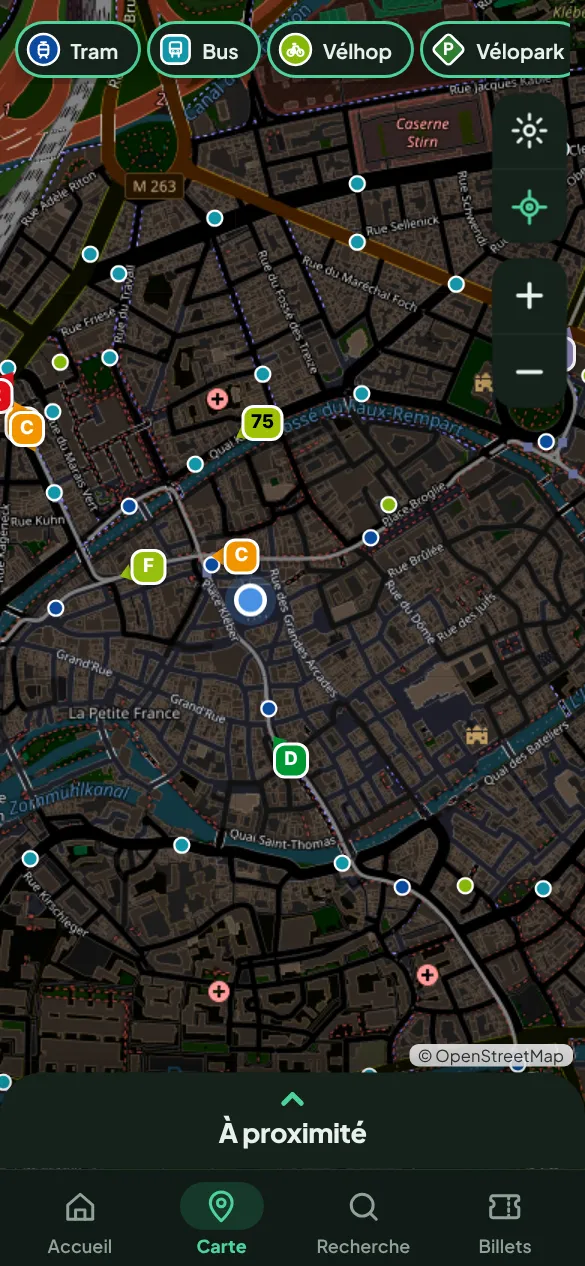
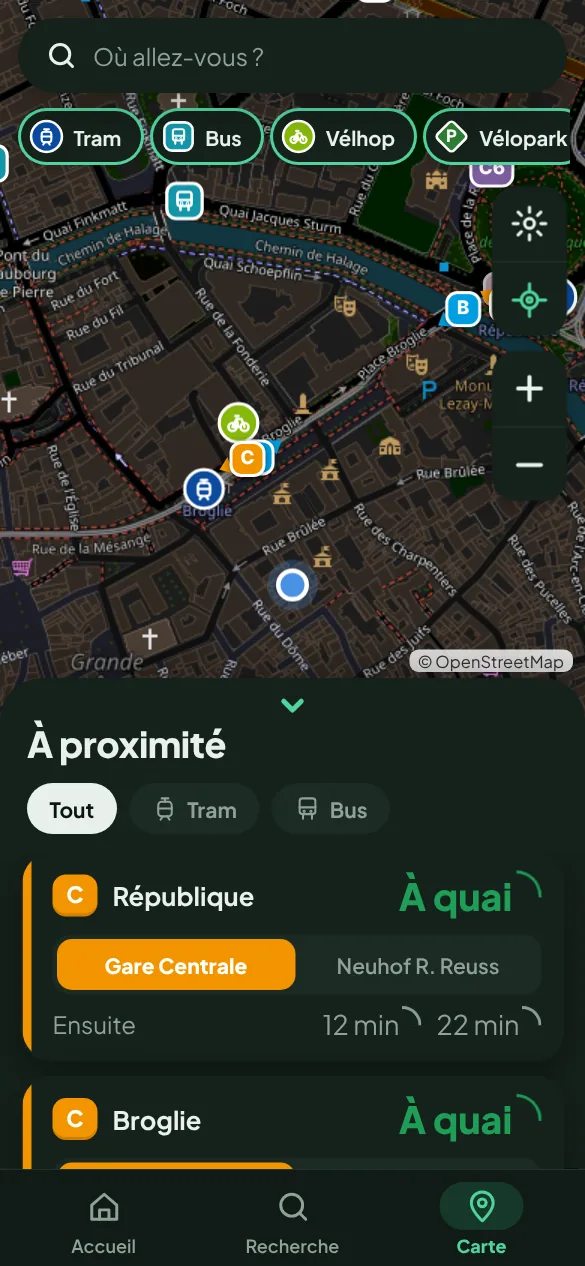
Site : nouveaux aperçus (accueil en tuiles, carte, départs, guidage), nouveautés, thèmes et vie privée à jour

diff --git a/vitrine/index.html b/vitrine/index.html
@@ -4,12 +4,12 @@
 <meta charset="utf-8">
 <meta name="viewport" content="width=device-width, initial-scale=1">
 <title>Kumm – les transports de Strasbourg, en direct</title>
-<meta name="description" content="Kumm affiche les prochains passages, la position des trams et bus et les perturbations du réseau CTS à Strasbourg. Application indépendante, gratuite et sans publicité.">
+<meta name="description" content="Kumm affiche les prochains passages, les trams et bus en direct sur la carte et vous guide jusqu’à destination, avec une alerte avant votre arrêt. Application indépendante pour Strasbourg, gratuite et sans publicité.">
 <meta name="color-scheme" content="light dark">
 <meta name="theme-color" content="#0F5C3E">
 <meta property="og:title" content="Kumm – les transports de Strasbourg, en direct">
-<meta property="og:description" content="Les prochains passages, la position des trams et bus et les perturbations du réseau CTS.">
-<meta property="og:image" content="https://kumm.fr/img/accueil-sombre.webp?v=0.29.1">
+<meta property="og:description" content="Les prochains passages, les trams et bus en direct et un guidage jusqu’à destination, à Strasbourg.">
+<meta property="og:image" content="https://kumm.fr/img/accueil-sombre.webp?v=0.39.2">
 <meta property="og:url" content="https://kumm.fr/">
 <link rel="icon" type="image/svg+xml" href="/logo.svg">
 <link rel="stylesheet" href="/fonts/fonts.css">
@@ -95,7 +95,23 @@ ol.steps b{color:var(--ink)}
 footer{border-top:1px solid var(--line);margin-top:48px;padding:26px 0 46px;color:var(--mute);font-size:14px}
 footer p{margin:0 0 8px}
 
+/* ---------- aperçus de l'application ---------- */
+.shots{display:grid;grid-template-columns:repeat(4,1fr);gap:18px}
+.shot{margin:0;display:flex;flex-direction:column;gap:14px}
+.shot .frame{border-radius:30px;padding:7px;background:#0A0F0D;box-shadow:var(--shadow),inset 0 0 0 2px #2a3530}
+.shot img{border-radius:24px;width:100%;height:auto}
+.shot figcaption b{display:block;font-size:17px;font-weight:800}
+.shot figcaption{color:var(--mute);font-size:14.5px;line-height:1.45}
+.tag{display:inline-block;font-size:12px;font-weight:800;letter-spacing:.6px;text-transform:uppercase;background:var(--soft);color:var(--accent-ink);border-radius:20px;padding:3px 10px;margin-bottom:6px}
+.f.new{border-color:color-mix(in srgb,var(--accent) 45%,var(--line))}
+.themes{display:flex;flex-wrap:wrap;gap:10px;margin-top:16px}
+.themes span{display:flex;align-items:center;gap:8px;background:var(--card);border:1px solid var(--line);border-radius:22px;padding:7px 14px 7px 8px;font-weight:700;font-size:14.5px}
+.themes i{width:22px;height:22px;border-radius:50%;box-shadow:inset 0 0 0 1px rgba(127,127,127,.35)}
+
 @media (max-width:880px){
+  .shots{grid-template-columns:repeat(4,72%);overflow-x:auto;scroll-snap-type:x mandatory;padding:4px 20px 14px;margin:0 -20px;scrollbar-width:none}
+  .shots::-webkit-scrollbar{display:none}
+  .shot{scroll-snap-align:center}
   .hero-grid{grid-template-columns:1fr;padding-top:34px}
   .phones{height:420px;margin:0 auto;width:100%;max-width:400px}
   .phone{width:196px;border-radius:32px;padding:7px}
@@ -107,6 +123,7 @@ footer p{margin:0 0 8px}
   .privacy{grid-template-columns:1fr 1fr}
 }
 @media (max-width:560px){
+  .shots{grid-template-columns:repeat(4,80%)}
   .features{grid-template-columns:1fr}
   .phones{height:360px}
   .phone{width:166px}
@@ -124,7 +141,7 @@ footer p{margin:0 0 8px}
     <div class="hero-grid">
       <div>
         <h1>Les trams et bus de Strasbourg, <em>en direct.</em></h1>
-        <p class="lead">Kumm affiche les prochains passages à vos arrêts, la position des trams et bus sur la carte et les perturbations en cours sur le réseau CTS. L’application est gratuite et sans publicité.</p>
+        <p class="lead">Les prochains passages à vos arrêts, les trams et bus qui avancent sur la carte, et un guidage qui vous accompagne jusqu’à destination, avec une alerte juste avant votre arrêt. Gratuit et sans publicité.</p>
         <div class="actions">
           <span class="btn primary soon" aria-disabled="true">
             <svg viewBox="0 0 24 24" fill="currentColor" aria-hidden="true"><path d="M17.6 9.48l1.84-3.18a.38.38 0 0 0-.66-.38l-1.86 3.22a11.4 11.4 0 0 0-9.84 0L5.22 5.92a.38.38 0 0 0-.66.38L6.4 9.48A10.8 10.8 0 0 0 1 18h22a10.8 10.8 0 0 0-5.4-8.52zM7 15.25a1.25 1.25 0 1 1 0-2.5 1.25 1.25 0 0 1 0 2.5zm10 0a1.25 1.25 0 1 1 0-2.5 1.25 1.25 0 0 1 0 2.5z"/></svg>
@@ -138,25 +155,52 @@ footer p{margin:0 0 8px}
         <p class="meta">Application indépendante, non affiliée à la CTS.</p>
       </div>
       <div class="phones" aria-label="Aperçus de l’application">
-        <div class="phone a"><picture><source srcset="/img/carte-sombre.webp?v=0.29.1" media="(prefers-color-scheme: dark)"><img src="/img/carte-clair.webp?v=0.29.1" width="585" height="1266" alt="La carte : arrêts, trams et bus en circulation" loading="eager"></picture></div>
-        <div class="phone b"><picture><source srcset="/img/accueil-sombre.webp?v=0.29.1" media="(prefers-color-scheme: dark)"><img src="/img/accueil-clair.webp?v=0.29.1" width="585" height="1266" alt="L’accueil de Kumm : recherche, prochains passages aux arrêts favoris et infos trafic" loading="eager"></picture></div>
+        <div class="phone a"><picture><source srcset="/img/carte-sombre.webp?v=0.39.2" media="(prefers-color-scheme: dark)"><img src="/img/carte-clair.webp?v=0.39.2" width="585" height="1266" alt="La carte : arrêts, trams et bus en circulation" loading="eager"></picture></div>
+        <div class="phone b"><picture><source srcset="/img/accueil-sombre.webp?v=0.39.2" media="(prefers-color-scheme: dark)"><img src="/img/accueil-clair.webp?v=0.39.2" width="585" height="1266" alt="L’accueil de Kumm en tuiles : itinéraire, arrêts favoris, info trafic et Vélhop" loading="eager"></picture></div>
       </div>
     </div>
   </div>
 </header>
 
 <main class="wrap">
+  <section aria-labelledby="t-apercus">
+    <p class="kicker">Nouvelle version</p>
+    <h2 id="t-apercus">Pensée pour aller vite</h2>
+    <p class="intro">Un accueil qui montre d’un coup d’œil ce qui compte pour vous, une carte en plein écran, des départs lisibles comme sur les écrans en station, et un guide qui vous suit du trottoir jusqu’à votre arrivée.</p>
+    <div class="shots">
+      <figure class="shot"><div class="frame"><picture><source srcset="/img/accueil-sombre.webp?v=0.39.2" media="(prefers-color-scheme: dark)"><img src="/img/accueil-clair.webp?v=0.39.2" width="585" height="1266" alt="Accueil en tuiles" loading="lazy"></picture></div><figcaption><b>Accueil en tuiles</b>Vos arrêts favoris et leurs prochains passages, l’info trafic et les vélos Vélhop les plus proches.</figcaption></figure>
+      <figure class="shot"><div class="frame"><picture><source srcset="/img/carte-sombre.webp?v=0.39.2" media="(prefers-color-scheme: dark)"><img src="/img/carte-clair.webp?v=0.39.2" width="585" height="1266" alt="Carte en plein écran avec les trams et bus en circulation" loading="lazy"></picture></div><figcaption><b>Carte en direct</b>Les trams et bus avancent sur la carte ; les arrêts proches et leurs passages en dessous.</figcaption></figure>
+      <figure class="shot"><div class="frame"><picture><source srcset="/img/arret-sombre.webp?v=0.39.2" media="(prefers-color-scheme: dark)"><img src="/img/arret-clair.webp?v=0.39.2" width="585" height="1266" alt="Départs d’un arrêt façon écran en station" loading="lazy"></picture></div><figcaption><b>Départs d’un arrêt</b>Tous les départs triés par heure, comme sur l’écran en station, avec le passage suivant.</figcaption></figure>
+      <figure class="shot"><div class="frame"><picture><source srcset="/img/guidage-sombre.webp?v=0.39.2" media="(prefers-color-scheme: dark)"><img src="/img/guidage-clair.webp?v=0.39.2" width="585" height="1266" alt="Guidage pendant un trajet en tram" loading="lazy"></picture></div><figcaption><b>Guidage jusqu’à destination</b>À pied jusqu’à l’arrêt, l’attente, les arrêts restants à bord, puis la marche jusqu’à l’arrivée.</figcaption></figure>
+    </div>
+  </section>
+
   <section aria-labelledby="t-fonctions">
     <p class="kicker">Ce que fait Kumm</p>
-    <h2 id="t-fonctions">Tout le réseau CTS dans votre poche</h2>
+    <h2 id="t-fonctions">Tout le réseau dans votre poche</h2>
     <p class="intro">Kumm récupère en continu les données ouvertes de la CTS et de la SNCF et les met en forme pour répondre vite à la seule question qui compte : quand passe le prochain ?</p>
     <div class="features">
-      <div class="f"><div class="ic"><svg viewBox="0 0 24 24" fill="none" stroke="currentColor" stroke-width="2" stroke-linecap="round" stroke-linejoin="round"><circle cx="12" cy="12" r="9"/><path d="M12 7v5l3 2"/></svg></div><h3>Passages en direct</h3><p>Les prochains trams et bus à votre arrêt, à la minute près.</p></div>
-      <div class="f"><div class="ic"><svg viewBox="0 0 24 24" fill="none" stroke="currentColor" stroke-width="2" stroke-linecap="round" stroke-linejoin="round"><path d="M12 21s7-6.2 7-11.5a7 7 0 0 0-14 0C5 14.8 12 21 12 21z"/><circle cx="12" cy="9.5" r="2.5"/></svg></div><h3>Carte</h3><p>Les arrêts autour de vous et les trams et bus en circulation.</p></div>
-      <div class="f"><div class="ic"><svg viewBox="0 0 24 24" fill="none" stroke="currentColor" stroke-width="2" stroke-linecap="round" stroke-linejoin="round"><circle cx="6" cy="19" r="2.5"/><circle cx="18" cy="5" r="2.5"/><path d="M8.5 19H15a3.5 3.5 0 0 0 0-7H9a3.5 3.5 0 0 1 0-7h6.5"/></svg></div><h3>Trains TER</h3><p>Les départs des gares de l’Eurométropole et les TER en circulation sur la carte, avec leurs retards.</p></div>
-      <div class="f"><div class="ic"><svg viewBox="0 0 24 24" fill="none" stroke="currentColor" stroke-width="2" stroke-linecap="round" stroke-linejoin="round"><path d="M18 8a6 6 0 0 0-12 0c0 7-3 9-3 9h18s-3-2-3-9"/><path d="M13.7 21a2 2 0 0 1-3.4 0"/></svg></div><h3>Alertes</h3><p>Une notification quand une de vos lignes est perturbée.</p></div>
-      <div class="f"><div class="ic"><svg viewBox="0 0 24 24" fill="none" stroke="currentColor" stroke-width="2" stroke-linecap="round" stroke-linejoin="round"><path d="M12 3 2 20h20L12 3z"/><path d="M12 10v4M12 17h.01"/></svg></div><h3>Infos trafic</h3><p>Toutes les perturbations en cours sur le réseau, avec leurs dates.</p></div>
+      <div class="f"><div class="ic"><svg viewBox="0 0 24 24" fill="none" stroke="currentColor" stroke-width="2" stroke-linecap="round" stroke-linejoin="round"><circle cx="12" cy="12" r="9"/><path d="M12 7v5l3 2"/></svg></div><h3>Passages en direct</h3><p>Les prochains trams et bus à votre arrêt, à la minute près, et ceux qui sont supprimés.</p></div>
+      <div class="f"><div class="ic"><svg viewBox="0 0 24 24" fill="none" stroke="currentColor" stroke-width="2" stroke-linecap="round" stroke-linejoin="round"><path d="M12 21s7-6.2 7-11.5a7 7 0 0 0-14 0C5 14.8 12 21 12 21z"/><circle cx="12" cy="9.5" r="2.5"/></svg></div><h3>Carte vivante</h3><p>Les trams, bus et TER se déplacent sur la carte. Touchez-en un pour voir sa vitesse et ses prochains arrêts.</p></div>
+      <div class="f new"><div class="ic"><svg viewBox="0 0 24 24" fill="none" stroke="currentColor" stroke-width="2" stroke-linecap="round" stroke-linejoin="round"><path d="m3 11 18-8-8 18-2-8z"/></svg></div><span class="tag">Nouveau</span><h3>Guidage de bout en bout</h3><p>Marche pas à pas, rappel de valider votre titre, alerte 5 arrêts avant la descente puis juste avant, même écran éteint sur Android.</p></div>
+      <div class="f"><div class="ic"><svg viewBox="0 0 24 24" fill="none" stroke="currentColor" stroke-width="2" stroke-linecap="round" stroke-linejoin="round"><circle cx="6" cy="19" r="2.5"/><circle cx="18" cy="5" r="2.5"/><path d="M8.5 19H15a3.5 3.5 0 0 0 0-7H9a3.5 3.5 0 0 1 0-7h6.5"/></svg></div><h3>Trains TER</h3><p>Les départs des gares de l’Eurométropole et les TER en circulation, avec leurs retards.</p></div>
+      <div class="f"><div class="ic"><svg viewBox="0 0 24 24" fill="none" stroke="currentColor" stroke-width="2" stroke-linecap="round" stroke-linejoin="round"><path d="M18 8a6 6 0 0 0-12 0c0 7-3 9-3 9h18s-3-2-3-9"/><path d="M13.7 21a2 2 0 0 1-3.4 0"/></svg></div><h3>Alertes et infos trafic</h3><p>Une notification quand une de vos lignes est perturbée, et toutes les perturbations en cours.</p></div>
       <div class="f"><div class="ic"><svg viewBox="0 0 24 24" fill="none" stroke="currentColor" stroke-width="2" stroke-linecap="round" stroke-linejoin="round"><circle cx="5.5" cy="17" r="3.5"/><circle cx="18.5" cy="17" r="3.5"/><path d="M5.5 17 9 9h6l3.5 8M9 9l3 8h-1M14 6h2l-1 3"/></svg></div><h3>Vélhop et parkings relais</h3><p>Les vélos disponibles dans chaque station Vélhop et les places libres dans les P+R.</p></div>
+    </div>
+  </section>
+
+  <section aria-labelledby="t-style">
+    <p class="kicker">À votre goût</p>
+    <h2 id="t-style">Une application qui vous ressemble</h2>
+    <p class="intro">Sept thèmes, cinq couleurs et quatre formes d’interface (l’original, épuré, en bulles ou compact) : choisissez en voyant l’aperçu, dans Réglages › Apparence. Un appui long sur la tuile Vélhop permet de garder votre station préférée à l’accueil.</p>
+    <div class="themes">
+      <span><i style="background:linear-gradient(135deg,#F2F6F3 50%,#0D1612 50%)"></i>Automatique</span>
+      <span><i style="background:#F2F6F3"></i>Menthe</span>
+      <span><i style="background:#F5EFE4"></i>Sable</span>
+      <span><i style="background:#0D1612"></i>Forêt</span>
+      <span><i style="background:#0A1222"></i>Océan</span>
+      <span><i style="background:#000"></i>Nuit</span>
+      <span><i style="background:linear-gradient(135deg,#000 50%,#fff 50%)"></i>Contraste élevé</span>
     </div>
   </section>
 
@@ -186,7 +230,7 @@ footer p{margin:0 0 8px}
   <section aria-labelledby="t-vie-privee">
     <p class="kicker">Vie privée</p>
     <h2 id="t-vie-privee">Vos données</h2>
-    <p class="intro">Les favoris et les réglages sont enregistrés sur votre téléphone. Votre position sert à trouver les arrêts proches ; elle n’est envoyée au serveur que pour calculer un itinéraire et n’est pas conservée. Si vous activez les alertes, le serveur garde uniquement la liste de vos lignes et l’identifiant de notification de votre téléphone.</p>
+    <p class="intro">Les favoris et les réglages restent sur votre téléphone. Votre position sert à trouver les arrêts proches ; elle n’est envoyée au serveur que pour calculer un itinéraire, et, pendant un guidage ou un trajet partagé, sans nom ni identifiant pour situer le tram ou le bus. Elle n’est jamais conservée. Si vous activez les alertes, le serveur garde uniquement la liste de vos lignes et l’identifiant de notification de votre téléphone. <a href="/confidentialite.html">Tous les détails</a></p>
     <div class="privacy">
       <div>Pas de compte</div>
       <div>Pas de publicité</div>
